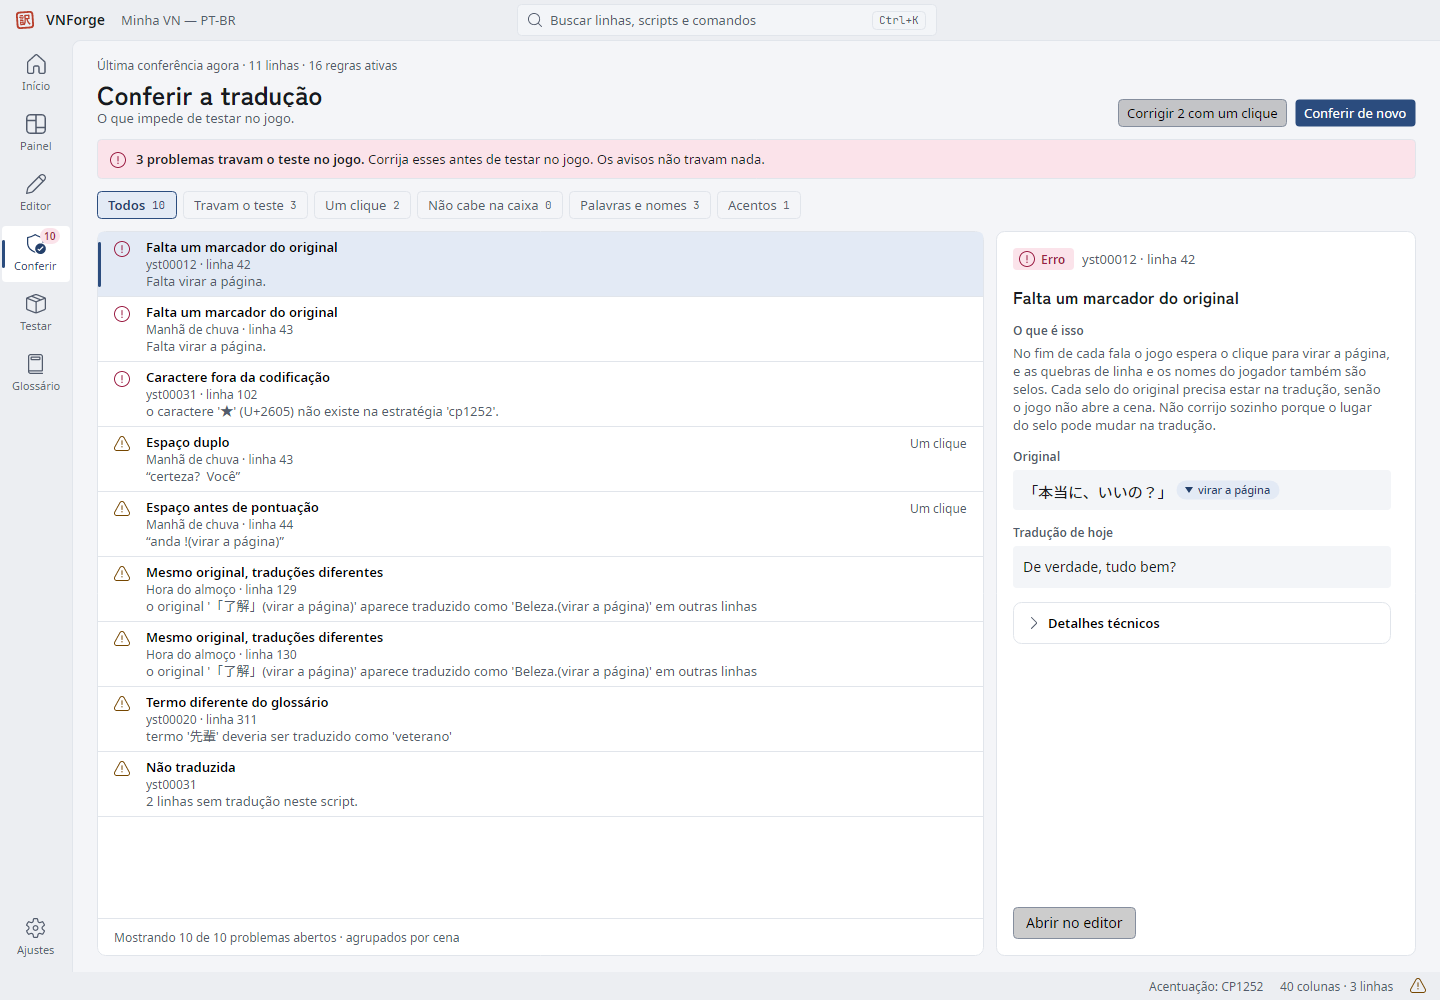
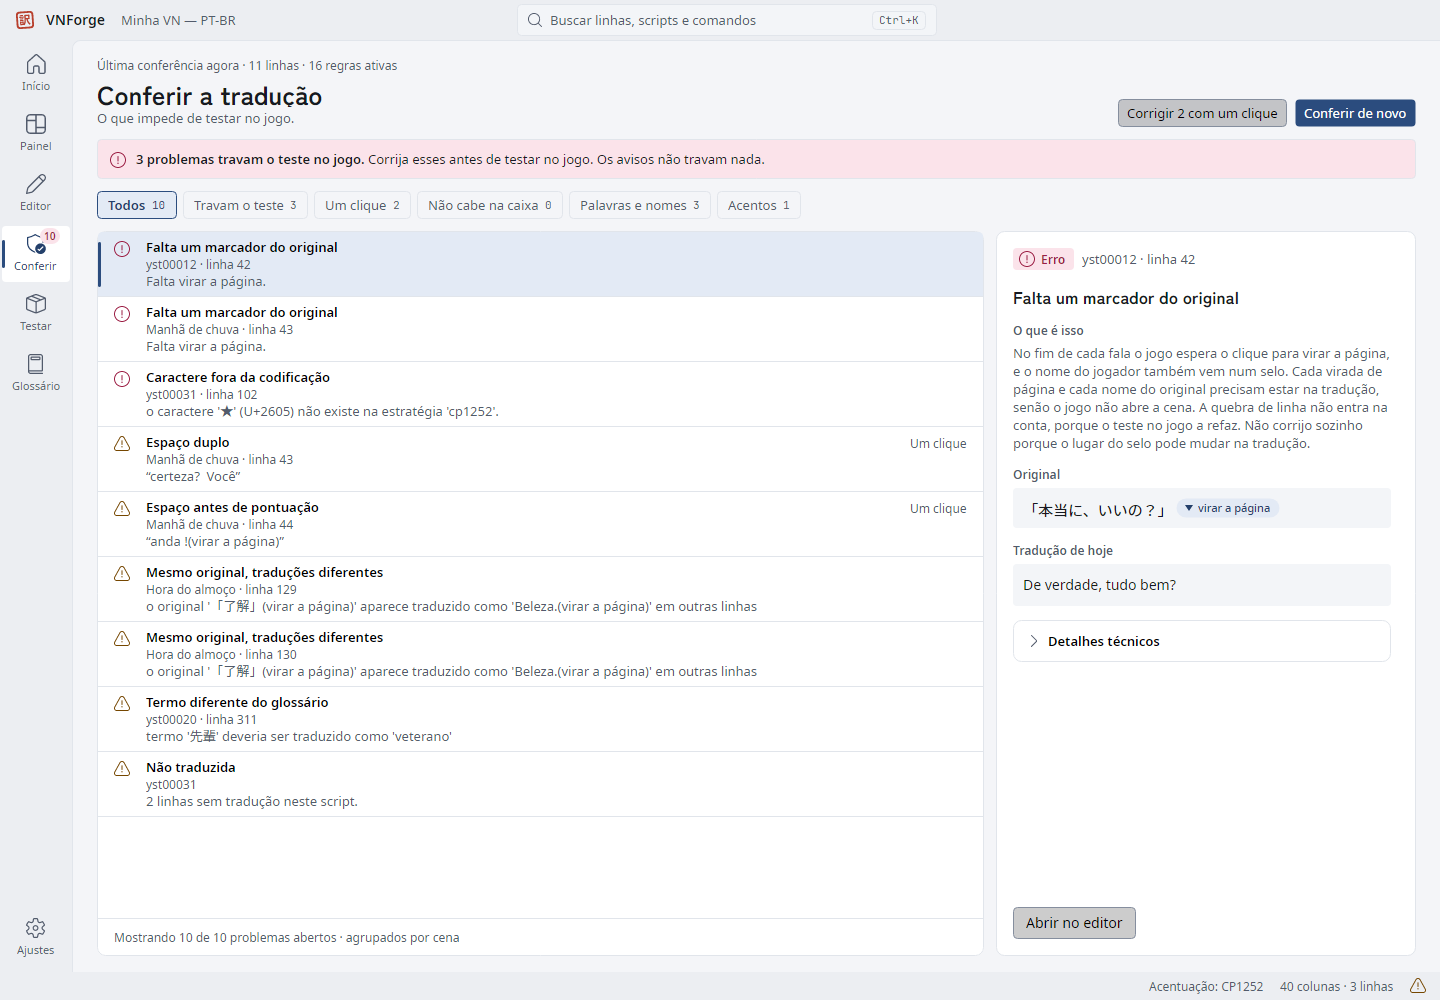
fix: Marcador de chave e repetido na conferência, explicação sem a quebra de linha (#334)

Changed region(s): [[0.6875, 0.372, 0.9688, 0.589], [0.7188, 0.62, 0.8125, 0.651]]

diff --git a/src/VNForge.App/ViewModels/ConferenceRows.cs b/src/VNForge.App/ViewModels/ConferenceRows.cs
@@ -15,7 +15,7 @@ public static class ConferenceRuleTexts
     {
         [UntranslatedQaRule.RuleId] = ("Não traduzida", "A fala ainda não tem tradução. No teste no jogo ela aparece em japonês, então não trava nada."),
         ["traducao-vazia"] = ("Tradução vazia", "A fala está marcada como traduzida, mas o texto está vazio. O jogo mostraria uma caixa de texto vazia."),
-        ["marcador-diferente"] = ("Falta ou sobra um marcador", "No fim de cada fala o jogo espera o clique para virar a página, e as quebras de linha e os nomes do jogador também são selos. Cada selo do original precisa estar na tradução, senão o jogo não abre a cena. Não corrijo sozinho porque o lugar do selo pode mudar na tradução."),
+        ["marcador-diferente"] = ("Falta ou sobra um marcador", "No fim de cada fala o jogo espera o clique para virar a página, e o nome do jogador também vem num selo. Cada virada de página e cada nome do original precisam estar na tradução, senão o jogo não abre a cena. A quebra de linha não entra na conta, porque o teste no jogo a refaz. Não corrijo sozinho porque o lugar do selo pode mudar na tradução."),
         ["glossario-diferente"] = ("Termo diferente do glossário", "O glossário fixa a tradução deste termo. Se a fala pede outra escolha, use Está certo assim para registrar a exceção na linha."),
         ["personagem-diferente"] = ("Nome de personagem diferente", "O nome do personagem foi traduzido diferente do que está no Glossário. Use Está certo assim se a variação for de propósito."),
         ["traducao-inconsistente"] = ("Mesmo original, traduções diferentes", "O mesmo original foi traduzido de jeitos diferentes. Pode ser de propósito (personagens diferentes); a lista completa abre na busca."),
@@ -161,7 +161,7 @@ public sealed class ConferenceIssueRowViewModel
         }
     }
 
-    private static readonly Regex MarkerPattern = new(@"\\[npcu\\]|\{[^{}]*\}", RegexOptions.CultureInvariant, TimeSpan.FromSeconds(1));
+    private static readonly Regex MarkerPattern = new(@"\\[npcu\\{]|\{[^{}]*\}", RegexOptions.CultureInvariant, TimeSpan.FromSeconds(1));
 
     /// <summary>Troca cada marcador cru do texto pelo nome em português, entre parênteses: <c>anda !\p</c> vira <c>anda !(virar a página)</c>.</summary>
     public static string PlainMarkers(string text) =>
@@ -354,5 +354,6 @@ internal readonly record struct MarkerDifference(IReadOnlyList<string> Missing, 
     private static List<string> Names(string markers) =>
         [.. markers.Split(' ', StringSplitOptions.RemoveEmptyEntries)
             .Select(m => MarkerLabels.Name(m, m.StartsWith('{') ? MarkerKind.Variable : MarkerKind.Control))
-            .Distinct(StringComparer.Ordinal)];
+            .GroupBy(name => name, StringComparer.Ordinal)
+            .Select(g => g.Count() == 1 ? g.Key : $"{g.Key} ({g.Count()} vezes)")];
 }

diff --git a/tests/VNForge.App.Tests/ConferenceViewModelTests.cs b/tests/VNForge.App.Tests/ConferenceViewModelTests.cs
@@ -203,6 +203,7 @@ public class ConferenceViewModelTests
     [InlineData(@"“anda !\p”", "“anda !(virar a página)”")]
     [InlineData(@"o original '「了解」\p' aparece", "o original '「了解」(virar a página)' aparece")]
     [InlineData(@"fala\nseguinte {VAR:nome}", "fala(quebra de linha)seguinte (nome do jogador)")]
+    [InlineData(@"a  \{b", "a  (chave)b")]
     [InlineData("sem marcador", "sem marcador")]
     public void A_lista_troca_o_marcador_cru_pelo_nome_em_portugues(string text, string expected)
     {
